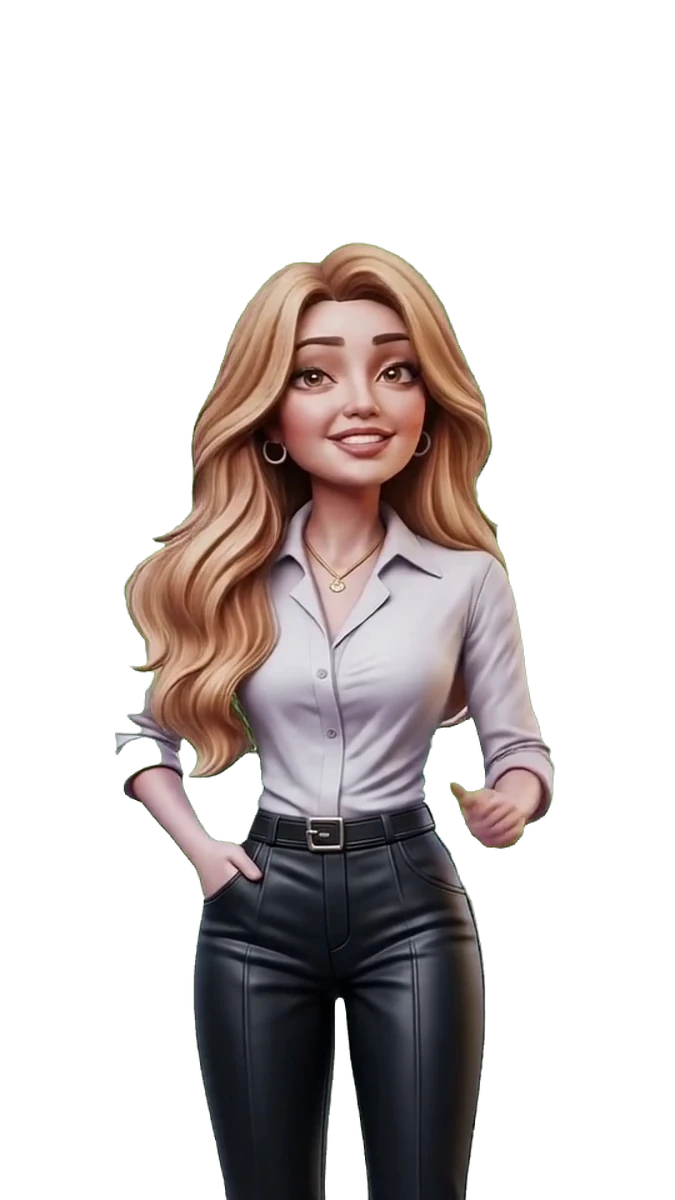
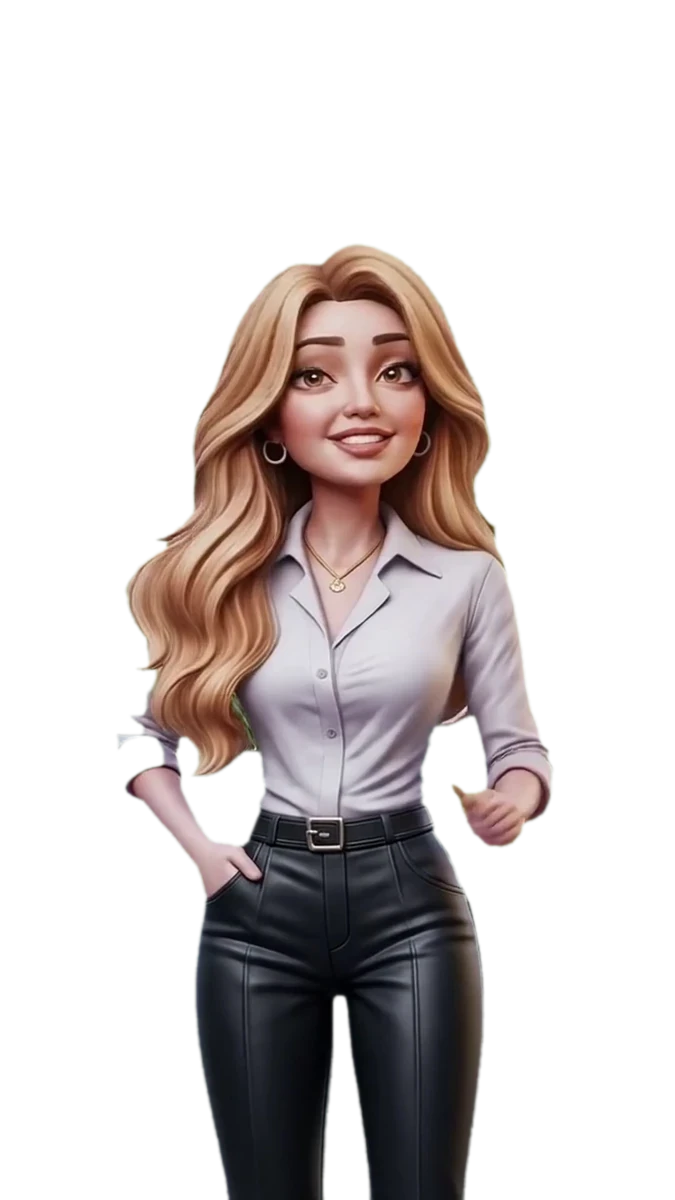
v118 : fond pétales blanc et blanc cassé, aussi sur l'écran d'ouverture ; contour d'Aura nettoyé
Claude-Session: https://claude.ai/code/session_01KYHmgYbUxgTmUSj4zC6iYF

diff --git a/index.html b/index.html
@@ -30,7 +30,7 @@ chk();document.addEventListener("visibilitychange",function(){if(!document.hidde
 <link rel="preconnect" href="https://fonts.googleapis.com">
 <link rel="preload" href="sons/aura-1.mp3" as="fetch" crossorigin>
 <link rel="preload" href="sons/aura-retour.mp3" as="fetch" crossorigin>
-<link rel="preload" href="aura-pose.webp?v=1" as="image" fetchpriority="high">
+<link rel="preload" href="aura-pose.webp?v=2" as="image" fetchpriority="high">
 <link rel="preconnect" href="https://fonts.gstatic.com" crossorigin>
 <link href="https://fonts.googleapis.com/css2?family=Cormorant+Garamond:ital,wght@0,400;0,500;0,600;1,400;1,500&family=Great+Vibes&family=Italiana&family=Jost:wght@300;400;500;600&family=IBM+Plex+Sans+Arabic:wght@400;500;600&family=Noto+Naskh+Arabic:wght@500;600&display=swap" rel="stylesheet" media="print" onload="this.media='all'">
 <style>
@@ -606,11 +606,12 @@ a.lb{text-decoration:none}
 
 /* Pas d’appel depuis l’écran d’ouverture : on appelle Aura une fois entrée (My Stylist) */
 #splash #talkbtn{display:none!important}
-#splash .spbot .btn{background:#FFFFFF;color:#702B3A;border:1px solid #FFFFFF}
-#splash .spbot .btn.ghost{background:none;color:#FFFFFF;border-color:#FFFFFF}
-#splash .sptop h1{color:#FFFFFF;text-shadow:0 2px 14px rgba(0,0,0,.45)}#splash .sptop p{color:#FFFFFF;text-shadow:0 1px 10px rgba(0,0,0,.5)}
-#splash .skip{color:#FFFFFF;text-shadow:0 1px 8px rgba(0,0,0,.5)}
-#splash .atelier{display:none}#splash{background:#702B3A!important}#splash .spbot:before{display:none}#splash .avatar.aura .fig{filter:none}
+/* v118 : écran d’ouverture sur le même fond pétales blanc et blanc cassé que l’app */
+#splash .spbot .btn{background:#702B3A;color:#FFFFFF;border:1px solid #702B3A;box-shadow:0 10px 24px rgba(112,43,58,.22)}
+#splash .spbot .btn.ghost{background:rgba(255,255,255,.85);color:#702B3A;border-color:#702B3A;box-shadow:none}
+#splash .sptop h1{color:#292421;text-shadow:0 2px 14px rgba(255,255,255,.95)}#splash .sptop p{color:#4A4340;text-shadow:0 1px 10px rgba(255,255,255,.95)}
+#splash .skip{color:#702B3A;text-shadow:0 1px 8px rgba(255,255,255,.9)}
+#splash .atelier{display:none}#splash{background:#FFFFFF url("fond-petales.webp?v=2") center top/cover no-repeat!important}#splash .spbot:before{display:none}#splash .avatar.aura .fig{filter:drop-shadow(0 14px 26px rgba(41,36,33,.16))}
 /* Événements à Doha */
 .evl{display:flex;flex-direction:column;gap:10px;margin:0 0 22px}
 .ev{display:flex;gap:14px;align-items:flex-start;padding:14px;border-radius:20px;background:var(--surface);border:1px solid var(--line);color:var(--ink);text-decoration:none}
@@ -718,7 +719,7 @@ nav.dock button[aria-current="page"]{font-weight:500}
 /* v117 : fond pétales blancs en relief (image d'Imen, passée en blanc neutre), fixe derrière toute l'app ; cadres bien marqués */
 html{background:#FFFFFF}
 body{background:transparent}
-html::before{content:"";position:fixed;inset:0;z-index:-1;pointer-events:none;background:#FFFFFF url("fond-petales.webp?v=1") center top/cover no-repeat}
+html::before{content:"";position:fixed;inset:0;z-index:-1;pointer-events:none;background:#FFFFFF url("fond-petales.webp?v=2") center top/cover no-repeat}
 @media (prefers-color-scheme:dark){:root:not([data-theme="light"]) html::before{display:none}:root:not([data-theme="light"]) body{background:var(--bg)}}
 :root[data-theme="dark"] html::before{display:none}:root[data-theme="dark"] body{background:var(--bg)}
 body::before{background:rgba(255,255,255,.92)}
@@ -816,7 +817,7 @@ nav.dock button:not([aria-current="page"])::after{content:"";height:2px;margin-t
 <path class="s3" d="M148 70l1.4 4 4 1.4-4 1.4-1.4 4-1.4-4-4-1.4 4-1.4Z"/><path class="s2" d="M262 40l1.4 4 4 1.4-4 1.4-1.4 4-1.4-4-4-1.4 4-1.4Z"/>
 <path class="s3" d="M24 380l1.4 4 4 1.4-4 1.4-1.4 4-1.4-4-4-1.4 4-1.4Z"/><path d="M384 560l1.6 5 5 1.6-5 1.6-1.6 5-1.6-5-5-1.6 5-1.6Z"/></g>
 <ellipse cx="200" cy="830" rx="230" ry="40" fill="#E3DACA" opacity=".55"/>
-</svg><div class="sptop"><h1 id="hi"></h1><p id="hi2"></p></div><div class="avatar aura" id="ava"><div class="fig"><img class="pose" src="aura-pose.webp?v=1" alt="Aura, ta styliste personnelle"><img class="body" src="aura-full.webp?v=3" alt="Aura, ta styliste personnelle"><img class="bras" src="aura-bras2.webp?v=3" alt=""><img class="mf" src="aura-m1.jpg?v=3" alt=""><img class="mf" src="aura-m2.jpg?v=3" alt=""><img class="mf" src="aura-m3.jpg?v=3" alt=""><img class="blink" src="aura-blink.webp?v=3" alt=""></div></div><button class="tapaura" type="button" aria-label="Entends-moi"><svg class="son" viewBox="0 0 24 24" aria-hidden="true"><path d="M4 9h4l5-4v14l-5-4H4z"/><path d="M16.5 8.5a5 5 0 0 1 0 7M19 6a8.5 8.5 0 0 1 0 12"/></svg><svg class="coupe" viewBox="0 0 24 24" aria-hidden="true"><path d="M4 9h4l5-4v14l-5-4H4z"/><path d="M17 9l5 6M22 9l-5 6"/></svg></button><div class="spbot"><button class="btn" id="install" hidden>Télécharger l’application</button><div id="spnom" hidden><input class="field" id="spnomI" autocomplete="given-name" placeholder="Ton prénom" style="font-size:20px;padding:16px;margin-bottom:12px;text-align:center"><button class="btn show" id="spnomB" disabled>Continuer</button></div><p id="spst" class="spst"></p><button class="btn ghost" id="start">Commencer</button></div><button id="skip" class="skip" type="button">Passer ›</button><button class="micbadge" id="talkbtn" type="button" aria-label="Parler avec elle"><svg class="mi" viewBox="0 0 24 24" aria-hidden="true"><path d="M5.2 3.5h3.1l1.8 4.6-2.3 1.5a11.5 11.5 0 0 0 6.6 6.6l1.5-2.3 4.6 1.8v3.1a2 2 0 0 1-2.1 2A17 17 0 0 1 3.2 5.6a2 2 0 0 1 2-2.1z"/></svg><svg class="hg" viewBox="0 0 24 24" aria-hidden="true"><path d="M3 15.5c5.3-4.7 12.7-4.7 18 0l-2.6 2.6-3.2-1.6v-2.7c-2.7-.9-4.7-.9-6.4 0v2.7l-3.2 1.6z"/></svg></button><div class="splg"><button type="button" class="lgbtn" data-lgmenu aria-label="Langue" aria-haspopup="true"><svg viewBox="0 0 24 24" aria-hidden="true"><circle cx="12" cy="12" r="9"/><path d="M3 12h18M12 3c2.8 3 2.8 15 0 18M12 3c-2.8 3-2.8 15 0 18"/></svg><b class="lgc">FR</b></button></div></div>
+</svg><div class="sptop"><h1 id="hi"></h1><p id="hi2"></p></div><div class="avatar aura" id="ava"><div class="fig"><img class="pose" src="aura-pose.webp?v=2" alt="Aura, ta styliste personnelle"><img class="body" src="aura-full.webp?v=3" alt="Aura, ta styliste personnelle"><img class="bras" src="aura-bras2.webp?v=3" alt=""><img class="mf" src="aura-m1.jpg?v=3" alt=""><img class="mf" src="aura-m2.jpg?v=3" alt=""><img class="mf" src="aura-m3.jpg?v=3" alt=""><img class="blink" src="aura-blink.webp?v=3" alt=""></div></div><button class="tapaura" type="button" aria-label="Entends-moi"><svg class="son" viewBox="0 0 24 24" aria-hidden="true"><path d="M4 9h4l5-4v14l-5-4H4z"/><path d="M16.5 8.5a5 5 0 0 1 0 7M19 6a8.5 8.5 0 0 1 0 12"/></svg><svg class="coupe" viewBox="0 0 24 24" aria-hidden="true"><path d="M4 9h4l5-4v14l-5-4H4z"/><path d="M17 9l5 6M22 9l-5 6"/></svg></button><div class="spbot"><button class="btn" id="install" hidden>Télécharger l’application</button><div id="spnom" hidden><input class="field" id="spnomI" autocomplete="given-name" placeholder="Ton prénom" style="font-size:20px;padding:16px;margin-bottom:12px;text-align:center"><button class="btn show" id="spnomB" disabled>Continuer</button></div><p id="spst" class="spst"></p><button class="btn ghost" id="start">Commencer</button></div><button id="skip" class="skip" type="button">Passer ›</button><button class="micbadge" id="talkbtn" type="button" aria-label="Parler avec elle"><svg class="mi" viewBox="0 0 24 24" aria-hidden="true"><path d="M5.2 3.5h3.1l1.8 4.6-2.3 1.5a11.5 11.5 0 0 0 6.6 6.6l1.5-2.3 4.6 1.8v3.1a2 2 0 0 1-2.1 2A17 17 0 0 1 3.2 5.6a2 2 0 0 1 2-2.1z"/></svg><svg class="hg" viewBox="0 0 24 24" aria-hidden="true"><path d="M3 15.5c5.3-4.7 12.7-4.7 18 0l-2.6 2.6-3.2-1.6v-2.7c-2.7-.9-4.7-.9-6.4 0v2.7l-3.2 1.6z"/></svg></button><div class="splg"><button type="button" class="lgbtn" data-lgmenu aria-label="Langue" aria-haspopup="true"><svg viewBox="0 0 24 24" aria-hidden="true"><circle cx="12" cy="12" r="9"/><path d="M3 12h18M12 3c2.8 3 2.8 15 0 18M12 3c-2.8 3-2.8 15 0 18"/></svg><b class="lgc">FR</b></button></div></div>
 <div id="lgmenu" role="menu" hidden><button type="button" role="menuitem" data-pick="fr" data-noi18n>Français</button><button type="button" role="menuitem" data-pick="en" data-noi18n>English</button><button type="button" role="menuitem" data-pick="ar" data-noi18n>عربي</button></div>
 <div id="inst" role="dialog" aria-modal="true" aria-labelledby="instT"><div class="sh"><h2 id="instT">Installer My Style</h2><p class="sub" id="instS">Quelques gestes dans Safari, et My Style s’ouvre comme une vraie application depuis ton écran d’accueil.</p>
 <ol id="instL"><li><span>Ouvert depuis <b>WhatsApp</b> ? Touche d’abord la <b>boussole Safari</b> <svg viewBox="0 0 24 24"><circle cx="12" cy="12" r="9"/><path d="M15.5 8.5l-2 5-5 2 2-5z"/></svg> en bas à droite</span></li><li><span>Touche <b>Partager</b> <svg viewBox="0 0 24 24"><path d="M12 15V3M8 7l4-4 4 4"/><path d="M6 11H5v10h14V11h-1"/></svg> en bas de Safari</span></li><li><span>Fais défiler et choisis <b>Sur l’écran d’accueil</b> <svg viewBox="0 0 24 24"><rect x="4" y="4" width="16" height="16" rx="4"/><path d="M12 8v8M8 12h8"/></svg></span></li><li><span>Touche <b>Ajouter</b>, puis ouvre l’icône My Style</span></li></ol>
@@ -840,7 +841,7 @@ nav.dock button:not([aria-current="page"])::after{content:"";height:2px;margin-t
 <script src="aura-corps.js?v=1"></script>
 <script src="zifafi-methode.js?v=2"></script>
 <script>
-const VERSION="117";
+const VERSION="118";
 // Bonjour d’Aura : une seule fois par ouverture de l’app (gardé même si l’app se recharge pour une mise à jour).
 let HOME_HI=false;try{HOME_HI=sessionStorage.getItem("ms_hi")==="1"}catch(e){}
 function markHi(){HOME_HI=true;try{sessionStorage.setItem("ms_hi","1")}catch(e){}}
@@ -1717,7 +1718,7 @@ beaute:()=>{const tab=S.btab||"mk",v=ok("visage");
  <div class="fchips" role="tablist"><button role="tab" data-btab="mk" aria-pressed="${tab==="mk"}">💄 ${BL(BX.tMk)}</button><button role="tab" data-btab="et" aria-pressed="${tab==="et"}">👑 ${BL(BX.tEt)}</button></div>
  ${tab==="et"?beauteEt():beauteMk()}</div>`,
  say:tab==="et"?BL(BX.etS):(v?{fr:"Voici ton make-up sur mesure, ",en:"Here is your made-to-measure make-up, ",ar:"هذا مكياجچ على مقاسچ يا "}[S.lang||"fr"]+NOM+".":BL(BX.noFace))}},
-chat:()=>({dock:1,html:`<div class="avatar aura inchat" id="ava2"><div class="fig"><img class="pose" src="aura-pose.webp?v=1" alt="Aura, ta styliste personnelle"><img class="body" src="aura-full.webp?v=3" alt="Aura, ta styliste"><img class="bras" src="aura-bras2.webp?v=3" alt=""><img class="mf" src="aura-m1.jpg?v=3" alt=""><img class="mf" src="aura-m2.jpg?v=3" alt=""><img class="mf" src="aura-m3.jpg?v=3" alt=""><img class="blink" src="aura-blink.webp?v=3" alt=""></div><button class="micbadge show${window.liveConv&&window.liveConv()?" live":""}" id="callbtn" type="button" aria-label="Parler à ma styliste"><svg class="mi" viewBox="0 0 24 24" aria-hidden="true"><path d="M5.2 3.5h3.1l1.8 4.6-2.3 1.5a11.5 11.5 0 0 0 6.6 6.6l1.5-2.3 4.6 1.8v3.1a2 2 0 0 1-2.1 2A17 17 0 0 1 3.2 5.6a2 2 0 0 1 2-2.1z"/></svg><svg class="hg" viewBox="0 0 24 24" aria-hidden="true"><path d="M3 15.5c5.3-4.7 12.7-4.7 18 0l-2.6 2.6-3.2-1.6v-2.7c-2.7-.9-4.7-.9-6.4 0v2.7l-3.2 1.6z"/></svg></button></div><h1>Ta styliste</h1>${typeof zfChatCtx==="function"?zfChatCtx():""}<p id="callst" class="sub" style="text-align:center">Appuie pour parler avec ta styliste</p><h2>Ou écris-lui</h2>
+chat:()=>({dock:1,html:`<div class="avatar aura inchat" id="ava2"><div class="fig"><img class="pose" src="aura-pose.webp?v=2" alt="Aura, ta styliste personnelle"><img class="body" src="aura-full.webp?v=3" alt="Aura, ta styliste"><img class="bras" src="aura-bras2.webp?v=3" alt=""><img class="mf" src="aura-m1.jpg?v=3" alt=""><img class="mf" src="aura-m2.jpg?v=3" alt=""><img class="mf" src="aura-m3.jpg?v=3" alt=""><img class="blink" src="aura-blink.webp?v=3" alt=""></div><button class="micbadge show${window.liveConv&&window.liveConv()?" live":""}" id="callbtn" type="button" aria-label="Parler à ma styliste"><svg class="mi" viewBox="0 0 24 24" aria-hidden="true"><path d="M5.2 3.5h3.1l1.8 4.6-2.3 1.5a11.5 11.5 0 0 0 6.6 6.6l1.5-2.3 4.6 1.8v3.1a2 2 0 0 1-2.1 2A17 17 0 0 1 3.2 5.6a2 2 0 0 1 2-2.1z"/></svg><svg class="hg" viewBox="0 0 24 24" aria-hidden="true"><path d="M3 15.5c5.3-4.7 12.7-4.7 18 0l-2.6 2.6-3.2-1.6v-2.7c-2.7-.9-4.7-.9-6.4 0v2.7l-3.2 1.6z"/></svg></button></div><h1>Ta styliste</h1>${typeof zfChatCtx==="function"?zfChatCtx():""}<p id="callst" class="sub" style="text-align:center">Appuie pour parler avec ta styliste</p><h2>Ou écris-lui</h2>
  <div class="chat">${S.chat.map((c,i)=>`<div class="bub ${c.r}" id="b${i}">${c.img?`<img src="${c.img}" alt="Photo envoyée">`:""}${esc(hideCodes(c.t))||(c.img?"":"…")}${c.r==="a"&&c.t?findArts(c.t).map(miniHTML).join(""):""}</div>`).join("")}</div>
  ${S.cphoto?`<div class="prev"><img src="${S.cphoto.url}" alt="Photo à envoyer"><button data-unphoto aria-label="Retirer la photo">×</button></div>`:""}
 
@@ -2196,13 +2197,13 @@ function voiceLine(t){return new Promise(r=>{const ss=window.speechSynthesis;let
 const VIDS={"aura-1":"videos/aura-1.mp4?v=2","aura-2":"videos/aura-2.mp4?v=1","aura-nom":"videos/aura-nom.mp4?v=1","aura-go":"videos/aura-go.mp4?v=1","aura-retour":"videos/aura-retour.mp4?v=1","aura-3":"videos/aura-3.mp4?v=1","aura-enchantee":"videos/aura-enchantee.mp4?v=1","aura-aventure":"videos/aura-aventure.mp4?v=1"};
 Object.keys(VIDS).filter(n=>n!=="aura-1").forEach(n=>{fetch(VIDS[n]).then(r=>r.ok?r.blob():null).then(b=>{if(b)VIDS[n]=URL.createObjectURL(b)}).catch(()=>{})});
 const AVID=document.createElement("video");AVID.muted=true;AVID.playsInline=true;AVID.setAttribute("playsinline","");AVID.setAttribute("muted","");AVID.preload="auto";{AVID.src=VIDS["aura-1"];AVID.dataset.n="aura-1"}
-// Détourage du fond vert sur la carte graphique (WebGL) : fluide même pendant l'appel. Deux vidéos peuvent se fondre l'une dans l'autre.
+// Détourage du fond vert sur la carte graphique (WebGL) ; v118 : bord resserré d’environ 2 px (plus de liseré sombre sur fond blanc) : fluide même pendant l'appel. Deux vidéos peuvent se fondre l'une dans l'autre.
 function glKey(c){let gl=null;try{gl=c.getContext("webgl",{premultipliedAlpha:false,alpha:true,antialias:false,preserveDrawingBuffer:false})}catch(e){}
  if(!gl)return null;
  const sh=(t,src)=>{const o=gl.createShader(t);gl.shaderSource(o,src);gl.compileShader(o);return o};
  const pr=gl.createProgram();
  gl.attachShader(pr,sh(gl.VERTEX_SHADER,"attribute vec2 p;varying vec2 uv;void main(){uv=vec2((p.x+1.)*.5,(1.-p.y)*.5);gl_Position=vec4(p,0.,1.);}"));
- gl.attachShader(pr,sh(gl.FRAGMENT_SHADER,"precision mediump float;varying vec2 uv;uniform sampler2D A;uniform sampler2D B;uniform float T;vec4 k(vec3 c){float m=max(c.r,c.b);float d=c.g-m;float al=clamp((.431-d)/.333,0.,1.);if(d>0.)c.g=m;return vec4(c,al);}void main(){vec4 x=k(texture2D(A,uv).rgb);vec4 y=k(texture2D(B,uv).rgb);vec4 o=mix(x,y,T);gl_FragColor=vec4(o.rgb*o.a,o.a);}"));
+ gl.attachShader(pr,sh(gl.FRAGMENT_SHADER,"precision mediump float;varying vec2 uv;uniform sampler2D A;uniform sampler2D B;uniform float T;float a(vec3 c){float d=c.g-max(c.r,c.b);return clamp((.36-d)/.26,0.,1.);}vec4 k(sampler2D s){vec3 c=texture2D(s,uv).rgb;float m=max(c.r,c.b);float al=a(c);if(c.g>m)c.g=m;vec2 e=vec2(.0065,.0037);float n=min(min(a(texture2D(s,uv+vec2(e.x,0.)).rgb),a(texture2D(s,uv-vec2(e.x,0.)).rgb)),min(a(texture2D(s,uv+vec2(0.,e.y)).rgb),a(texture2D(s,uv-vec2(0.,e.y)).rgb)));al=min(al,n);al=al*al*(3.-2.*al);return vec4(c,al);}void main(){vec4 x=k(A);vec4 y=k(B);vec4 o=mix(x,y,T);gl_FragColor=vec4(o.rgb*o.a,o.a);}"));
  gl.linkProgram(pr);if(!gl.getProgramParameter(pr,gl.LINK_STATUS))return null;gl.useProgram(pr);
  const bf=gl.createBuffer();gl.bindBuffer(gl.ARRAY_BUFFER,bf);gl.bufferData(gl.ARRAY_BUFFER,new Float32Array([-1,-1,1,-1,-1,1,1,1]),gl.STATIC_DRAW);
  const loc=gl.getAttribLocation(pr,"p");gl.enableVertexAttribArray(loc);gl.vertexAttribPointer(loc,2,gl.FLOAT,false,0,0);

diff --git a/CLAUDE.md b/CLAUDE.md
@@ -27,7 +27,7 @@ Application de personal styling (PWA statique) avec Aura, styliste IA vocale. La
 - `PROFIL()` résume analyses + infos + `pfCtx()` + `grBrief()` ; c'est la variable `profil` envoyée à l'agent ElevenLabs (voix et chat).
 - Accueil (v109) : « Pour toi aujourd’hui » sans photo de vêtements ; cartes Explorer avec vraies photos Unsplash (`HZ_PH`, illustration en secours). Profil, infos et Boutique s’ouvrent sans voix. (v111) Le bonjour d’Aura n’est dit qu’une fois par ouverture : écran d’ouverture OU accueil, jamais les deux, jamais au retour sur l’accueil (`HOME_HI` + `sessionStorage ms_hi`, gardé après un rechargement de mise à jour).
 - Accueil (v113, d'après la maquette d'Imen) : en-tête à boutons ronds blancs (profil d'un côté, langue + voix de l'autre), logo « My STYLE » centré jamais traduit (`data-noi18n`) ; ordre (v114) : salutation + Aura, carte « My Stylist » (Appeler Aura), Mon style (fiche + Outfit check), Pour toi aujourd’hui, « Tes rubriques préférées » (Shopping, Beauté, Looks pour toi), Zifafi, garde-robe, et « Inspirations du jour » (Nouveautés) tout en bas.
-- Fond (v117) : image `fond-petales.webp` (pétales blancs en relief fournis par Imen, passés en blanc neutre sans beige), posée sur `html::before` en `position:fixed` (marche aussi sur iPhone) ; cartes de l'accueil bien encadrées (bordure #DCDCDC + ombre) ; barre du bas blanc plein ; en mode sombre, fond uni.
+- Fond (v118) : image `fond-petales.webp` (pétales en relief fournis par Imen, passés en blanc et blanc cassé, jamais gris), posée sur `html::before` en `position:fixed` (marche aussi sur iPhone) ; même fond sur l'écran d'ouverture (`#splash`, boutons bordeaux, textes foncés) ; cartes de l'accueil bien encadrées (bordure #DCDCDC + ombre) ; barre du bas blanc plein ; en mode sombre, fond uni. Vidéos d'Aura : détourage du fond vert resserré (~2 px, `glKey`) pour ne plus avoir de liseré sombre sur fond clair ; `aura-pose.webp` v2 (bord nettoyé).
 - `GRATUIT=true` (phase de test) : tout est illimité. Le remettre à `false` réactive les formules.
 - À chaque publication : augmenter `const VERSION` dans `index.html` (mise à jour auto des téléphones) et le `?v=` de `i18n.js` / `aura-corps.js` / `aura-profile.js` / `aura-methode.js` / `zifafi*.js` / `zifafi.css` si modifiés.
 - Aucune clé API dans le front, les fichiers publics ou l'historique Git.
